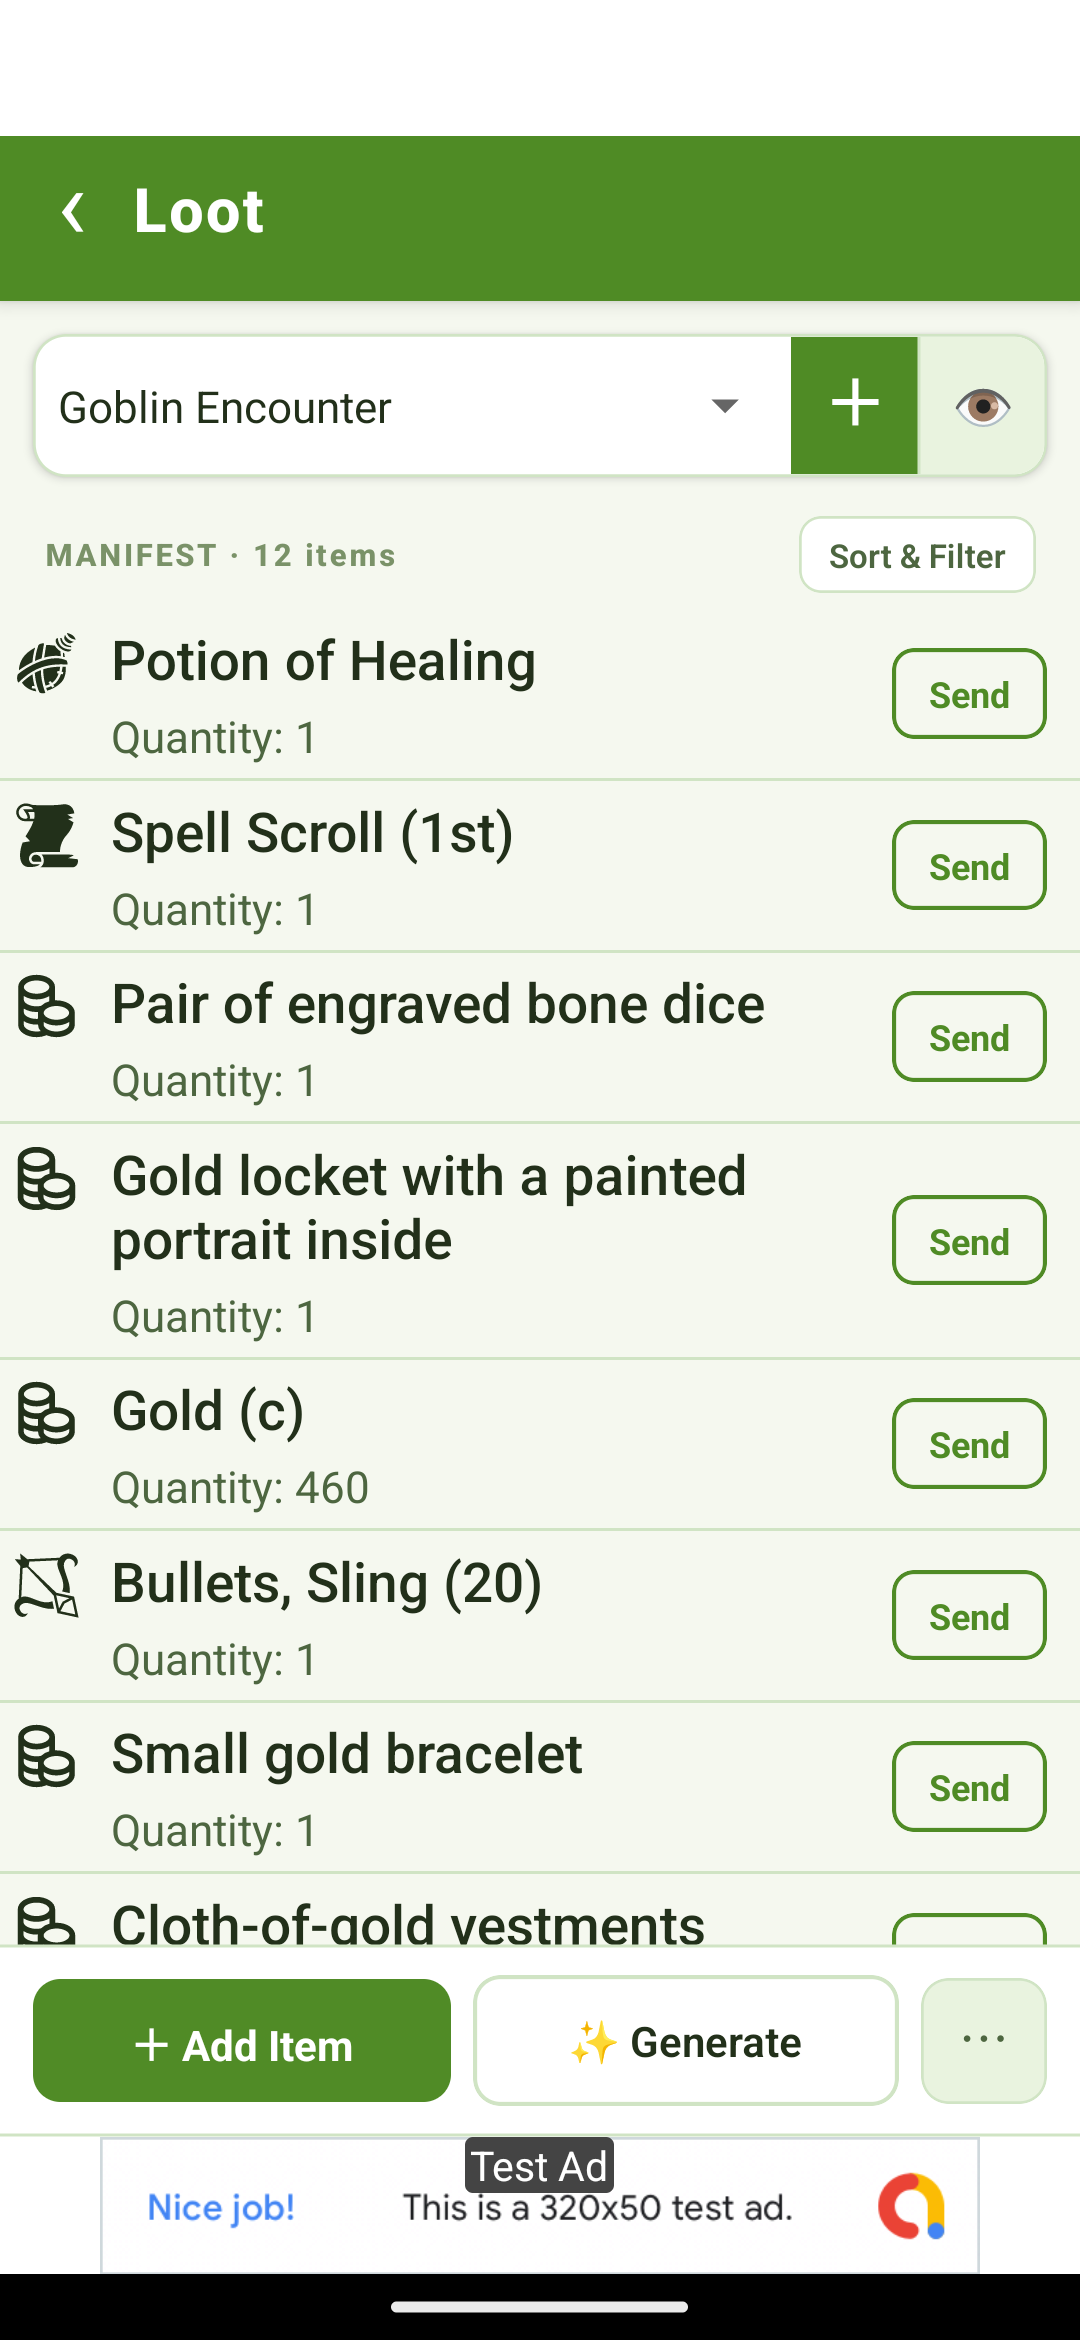
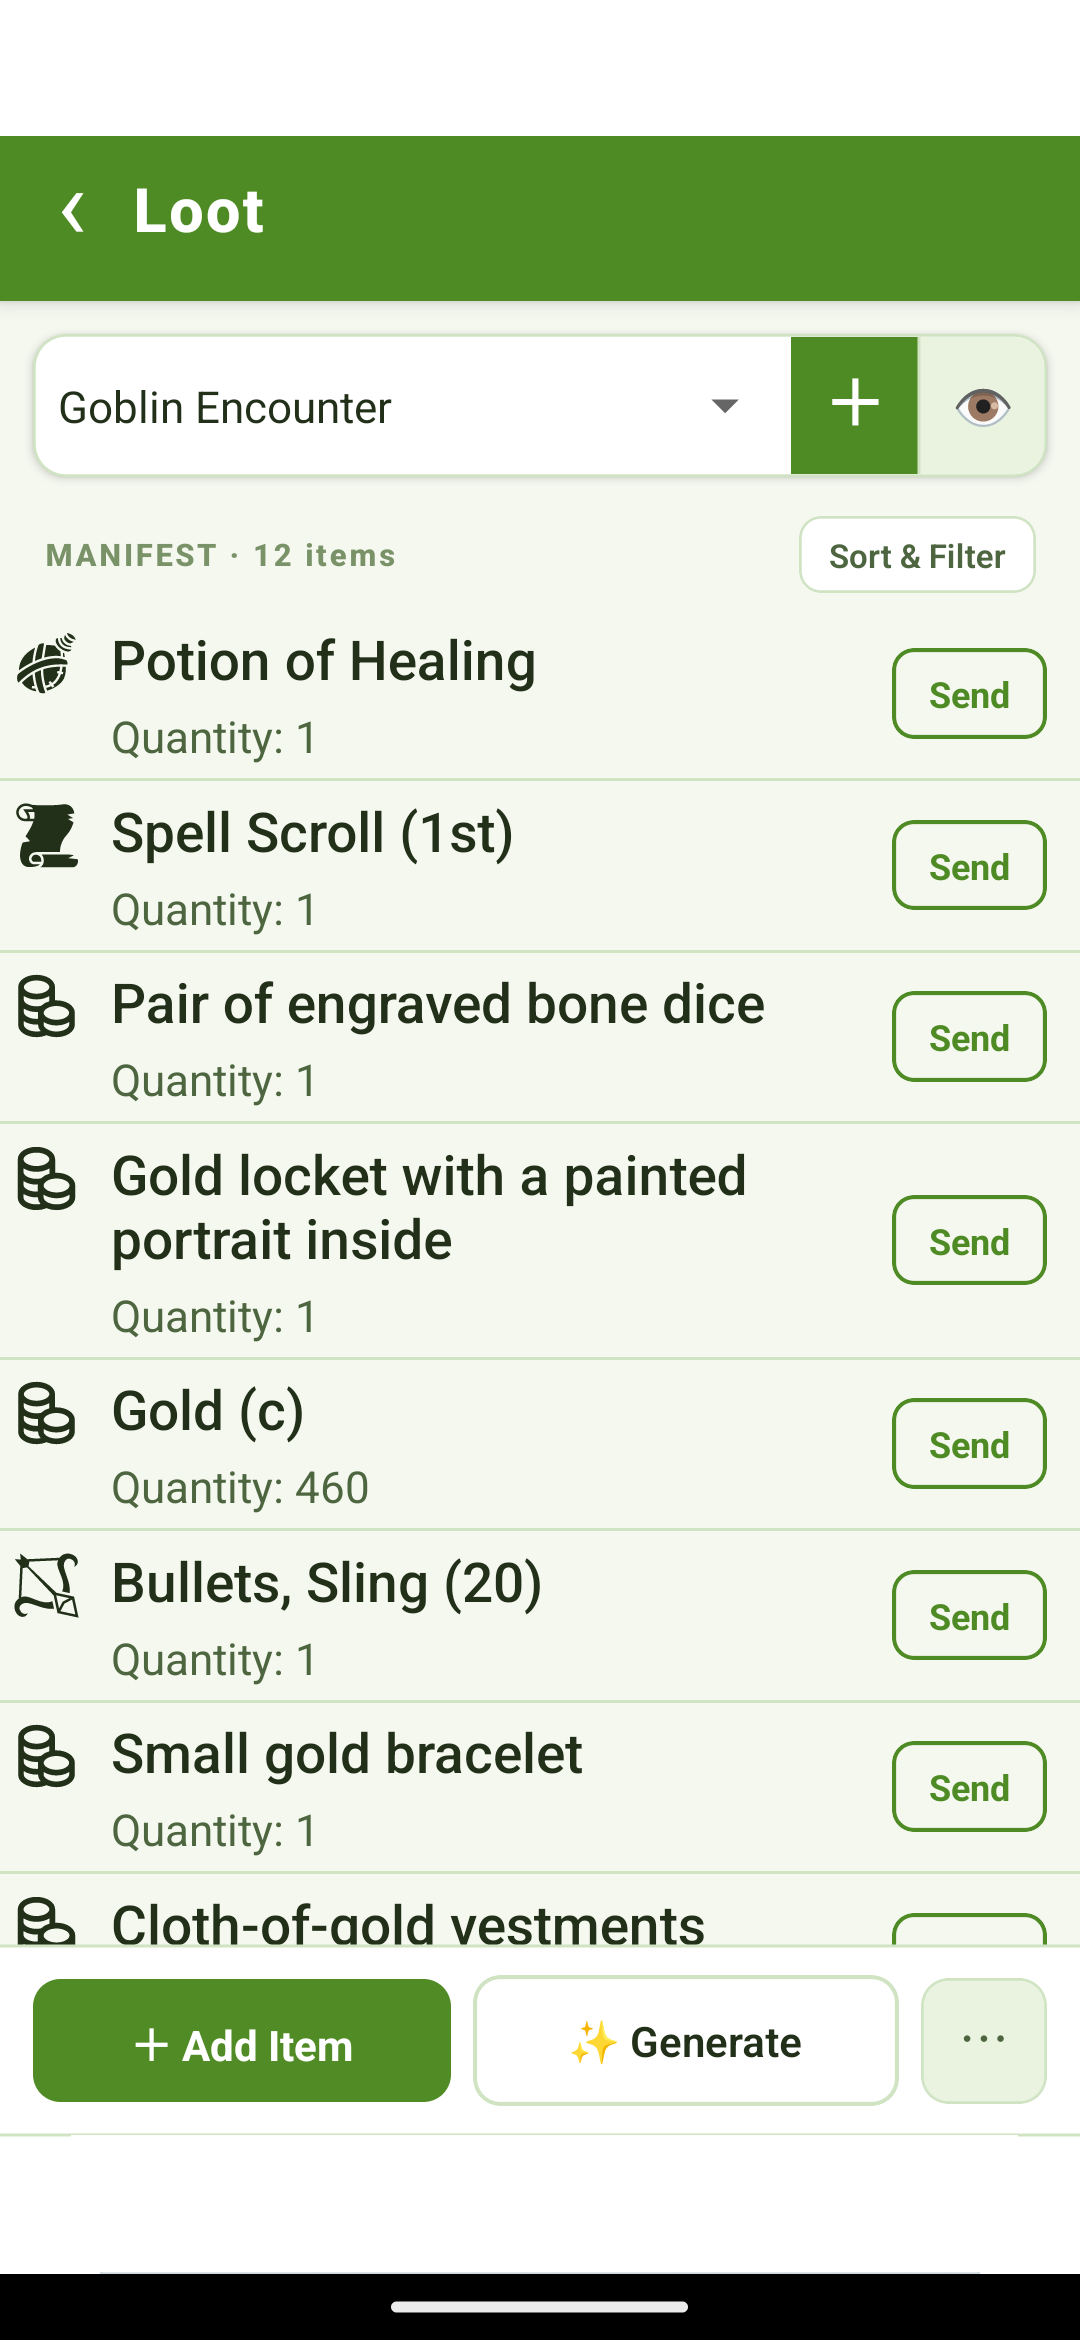
Expand site content: more feature rows, FAQ, hero image, privacy policy fix
- index.html: hero now shows the DM Screen screenshot beside the intro
  text (stacked on mobile); "Five Things" -> "Seven Things It Actually
  Does" with new Shop and Barter rows
- features.html: add screenshots to Dice Roller, Inventory, Crafting,
  and Macros rows
- support.html: rewrite "Is the app finished?" and the no-Android-device
  answer, add three new FAQ entries (ads/monetization, DM device loss +
  backups, offline/networking)
- download.html: drop the pre-launch "going live soon" copy, button now
  reads "Get it on Google Play" (href is still a placeholder pending the
  real Play Store URL)
- privacy-policy.html: add the effective date (verified against the live
  Google Sites source), remove the draft-verification banner now that
  the content's been confirmed
- screenshots/: add crafting, dice-roller, inventory, macros; update
  loot-list and shop-list with the test-ad banners cropped out
- styles.css: .hero-layout/.hero-shot for the new side-by-side hero

diff --git a/site/features.html b/site/features.html
@@ -43,10 +43,15 @@
         <img class="feature-shot" src="/screenshots/timekeeper-counters.png" alt="Time Keeper's linked counters list">
       </div>
     </div>
-    <div class="feature-row">
-      <span class="tag">Session</span>
-      <h3><span class="h3-emoji">🎲</span>Dice Roller</h3>
-      <p>Standard d4–d100, a dice count, and a flat modifier, with a running result log for the table to scroll back through.</p>
+    <div class="feature-row feature-row-media">
+      <div>
+        <span class="tag">Session</span>
+        <h3><span class="h3-emoji">🎲</span>Dice Roller</h3>
+        <p>Standard d4–d100, a dice count, and a flat modifier, with a running result log for the table to scroll back through.</p>
+      </div>
+      <div class="feature-shots">
+        <img class="feature-shot" src="/screenshots/dice-roller.png" alt="The Dice Roller with a result and running log">
+      </div>
     </div>
     <div class="feature-row feature-row-media">
       <div>
@@ -80,25 +85,40 @@
         <img class="feature-shot" src="/screenshots/barter.png" alt="A Barter trade with requesting, offering, and surplus">
       </div>
     </div>
-    <div class="feature-row">
-      <span class="tag">Party</span>
-      <h3><img class="h3-icon" src="/icons/armor.png" alt="">Inventory</h3>
-      <p>Sort by name, weight, value, or category, with encumbrance and gold visible at a glance. Long-press any item to inspect, sell, discard, or hand it to another party member or to Party Loot.</p>
+    <div class="feature-row feature-row-media">
+      <div>
+        <span class="tag">Party</span>
+        <h3><img class="h3-icon" src="/icons/armor.png" alt="">Inventory</h3>
+        <p>Sort by name, weight, value, or category, with encumbrance and gold visible at a glance. Long-press any item to inspect, sell, discard, or hand it to another party member or to Party Loot.</p>
+      </div>
+      <div class="feature-shots">
+        <img class="feature-shot" src="/screenshots/inventory.png" alt="A player's inventory with carry weight and gold">
+      </div>
     </div>
     <div class="feature-row">
       <span class="tag">Rules</span>
       <h3><img class="h3-icon" src="/icons/magic-item.png" alt="">Custom Items &amp; Inventory Sets</h3>
       <p>Author campaign-specific items on the fly, or swap in an entirely different catalog from an uploaded JSON file — your own homebrew system or setting, replacing the default list everywhere it's used. Updating it mid-session pushes to every connected player without anyone reconnecting. Building your own catalog? See the <a href="/custom-inventory-guide">Custom Inventory Guide</a> for the full file format.</p>
     </div>
-    <div class="feature-row">
-      <span class="tag">Rules</span>
-      <h3><img class="h3-icon" src="/icons/axe.png" alt="">Crafting</h3>
-      <p>The crafting form itself changes with the ruleset — SRD, homebrew, and a Fallout-style variant that gates on a rarity-scaled skill check, with a chance to lose materials on a failed roll.</p>
+    <div class="feature-row feature-row-media">
+      <div>
+        <span class="tag">Rules</span>
+        <h3><img class="h3-icon" src="/icons/axe.png" alt="">Crafting</h3>
+        <p>The crafting form itself changes with the ruleset — SRD, homebrew, and a Fallout-style variant that gates on a rarity-scaled skill check, with a chance to lose materials on a failed roll.</p>
+      </div>
+      <div class="feature-shots">
+        <img class="feature-shot" src="/screenshots/crafting.png" alt="Crafting by gold value, D&D 5e SRD style">
+      </div>
     </div>
-    <div class="feature-row">
-      <span class="tag">Automation</span>
-      <h3><img class="h3-icon" src="/icons/lightning.png" alt="">Macros</h3>
-      <p>Roll a die against a DC, then apply separate success and failure effects — an item's quantity or a Counter's value, each with its own bonus dice. Macros can chain into a follow-up macro on pass or fail, with a shared roll history for the table.</p>
+    <div class="feature-row feature-row-media">
+      <div>
+        <span class="tag">Automation</span>
+        <h3><img class="h3-icon" src="/icons/lightning.png" alt="">Macros</h3>
+        <p>Roll a die against a DC, then apply separate success and failure effects — an item's quantity or a Counter's value, each with its own bonus dice. Macros can chain into a follow-up macro on pass or fail, with a shared roll history for the table.</p>
+      </div>
+      <div class="feature-shots">
+        <img class="feature-shot" src="/screenshots/macros.png" alt="Building a macro with a DC check and success/fail effects">
+      </div>
     </div>
     <div class="feature-row feature-row-media">
       <div>

diff --git a/site/index.html b/site/index.html
@@ -26,12 +26,19 @@
 <main>
 
   <section class="hero">
-    <p class="eyebrow">TTRPG session companion</p>
-    <h1>Master Your TTRPG Adventures</h1>
-    <p class="sub">Stop Managing. Start Playing.</p>
-    <p class="desc">Elemental Inventory tracks time, manages resources, and distributes loot without the paperwork — so the table can get back to the story instead of the spreadsheet.</p>
-    <div class="btn-row">
-      <a class="btn btn-primary" href="/download">Download for Android</a>
+    <div class="hero-layout">
+      <div class="hero-text">
+        <p class="eyebrow">TTRPG session companion</p>
+        <h1>Master Your TTRPG Adventures</h1>
+        <p class="sub">Stop Managing. Start Playing.</p>
+        <p class="desc">Elemental Inventory tracks time, manages resources, and distributes loot without the paperwork — so the table can get back to the story instead of the spreadsheet.</p>
+        <div class="btn-row">
+          <a class="btn btn-primary" href="/download">Download for Android</a>
+        </div>
+      </div>
+      <div class="hero-shot-wrap">
+        <img class="hero-shot" src="/screenshots/dm-screen.png" alt="The DM Screen: Loot, Shop, Time Keeper, Players Inventory, Dice Roller, Barter, and Crafting, all in one place">
+      </div>
     </div>
     <div class="hero-icons" aria-hidden="true">
       <img src="/icons/weapon.png" alt="">
@@ -86,7 +93,7 @@
   </section>
 
   <section>
-    <h2 style="text-align:center; margin-bottom:36px;">Five Things It Actually Does</h2>
+    <h2 style="text-align:center; margin-bottom:36px;">Seven Things It Actually Does</h2>
 
     <div class="feature-row">
       <span class="tag"><img class="tag-icon" src="/icons/clock.png" alt="">Time Keeper</span>
@@ -97,6 +104,16 @@
       <span class="tag"><img class="tag-icon" src="/icons/currency.png" alt="">Loot &amp; Party Loot</span>
       <h3>30-Second Loot Distribution</h3>
       <p>The DM drops a haul in, players pick what they want, and anything nobody claims goes straight to a shared party pool instead of one character's overloaded pack. No more fifteen items and a scramble of handwritten notes.</p>
+    </div>
+    <div class="feature-row">
+      <span class="tag"><img class="tag-icon" src="/icons/shield.png" alt="">Shop</span>
+      <h3>A Storefront That Restocks Itself</h3>
+      <p>Players buy against the current stock with your discounts and fees already applied — no more spot-pricing every item out loud mid-session. Auto-stocked by category and rarity, so the DM can stand up a brand-new town's shop in seconds instead of building a list from scratch.</p>
+    </div>
+    <div class="feature-row">
+      <span class="tag"><img class="tag-icon" src="/icons/necklace.png" alt="">Barter</span>
+      <h3>Haggling Without the Spreadsheet</h3>
+      <p>Trade item-for-item with players, NPCs, or merchants on a shared board — what you want on top, what you're offering underneath — with a live balance bar showing even, short, or surplus. No more arguing over what a magic sword is "worth" in torches.</p>
     </div>
     <div class="feature-row">
       <span class="tag"><img class="tag-icon" src="/icons/lightning.png" alt="">Macros</span>

diff --git a/site/support.html b/site/support.html
@@ -38,11 +38,19 @@
 
     <div class="faq-item">
       <h3>Is the app finished?</h3>
-      <p>It's under active development — the core features documented on <a href="/features">Features</a> work today, and updates roll out regularly. Expect the occasional rough edge.</p>
+      <p>It's live on the Play Store and still actively developed — the core features documented on <a href="/features">Features</a> work today, and new ones roll out regularly. Expect the occasional rough edge as it keeps growing.</p>
+    </div>
+    <div class="faq-item">
+      <h3>Is it really free? Are there ads?</h3>
+      <p>Yes, completely free — no subscription, no in-app purchases, nothing gated behind a paywall. It's supported by small banner ads that never interrupt play or block a feature.</p>
     </div>
     <div class="faq-item">
       <h3>Will my data carry over as the app updates?</h3>
       <p>Yes — your campaigns live on your own device and aren't affected by app updates.</p>
+    </div>
+    <div class="faq-item">
+      <h3>What happens if the DM's phone dies, or the app gets deleted?</h3>
+      <p>The DM can export a full session backup at any time — every player's inventory, Loot, Shop, Time Keeper, and any custom item catalog — and Auto-Backup can keep one updated automatically in a folder outside the app's own storage, so it survives even a full uninstall. Restoring picks the same campaign back up as the same DM, on the same or a new device.</p>
     </div>
     <div class="faq-item">
       <h3>How do I report a bug?</h3>
@@ -51,6 +59,10 @@
     <div class="faq-item">
       <h3>Can I invite my whole group?</h3>
       <p>Please do — up to ten players can join a single game, and it's more fun (and more useful feedback for us) with the whole table involved.</p>
+    </div>
+    <div class="faq-item">
+      <h3>Do we need internet at the table?</h3>
+      <p>No cloud database, no account, no subscription — the DM's device hosts the game and everyone connects peer-to-peer. Everyone still needs some form of connection (wifi or mobile data) for those devices to actually sync with each other, though.</p>
     </div>
     <div class="faq-item">
       <h3>Why Android first?</h3>
@@ -62,7 +74,7 @@
     </div>
     <div class="faq-item">
       <h3>I don't have an Android device — can I still try it?</h3>
-      <p>Not yet — a browser version is in the works, and iOS is planned after that. Android is the only supported platform for now.</p>
+      <p>Not yet as a native install — a browser version is in the works, and iOS is planned after that. In the meantime, a free Android emulator on your PC or Mac works fine: <a href="https://www.bluestacks.com/" target="_blank" rel="noopener">BlueStacks</a> is the quickest to set up, or <a href="https://developer.android.com/studio" target="_blank" rel="noopener">Android Studio</a>'s built-in emulator if you'd rather skip third-party software.</p>
     </div>
 
   </section>

diff --git a/site/privacy-policy.html b/site/privacy-policy.html
@@ -26,15 +26,10 @@
 <main>
   <section class="hero" style="padding-bottom:0; text-align:left;">
     <h1>Privacy Policy</h1>
+    <p style="color:var(--ink-faint); font-size:13.5px;">Effective July 3, 2026</p>
   </section>
 
   <section class="narrow" style="margin:0 auto;">
-
-    <div class="draft-notice">
-      <strong>Draft — please verify before this replaces the live policy.</strong> This page was reconstructed from the existing Google Sites privacy policy via an automated summary, not copied verbatim. Compare it against the original at
-      <a href="https://sites.google.com/view/elementalinventoryapp/privacy-policy" target="_blank" rel="noopener">sites.google.com/view/elementalinventoryapp/privacy-policy</a>
-      and correct any wording before publishing, since this is a legal document and the exact language matters.
-    </div>
 
     <p>This privacy policy applies to the Elemental Inventory app for mobile devices, together with any related services operated by Daniel Kissel.</p>
 

diff --git a/site/styles.css b/site/styles.css
@@ -208,6 +208,24 @@ section + section { border-top: 3px dashed var(--leaf-dark); }
   .hero-icons { gap: 10px; }
 }
 
+/* Text left, screenshot right on wide screens; stacked and centered
+   (matching the rest of .hero) on anything narrower than that. */
+.hero-layout { display: grid; grid-template-columns: 1fr; gap: 32px; align-items: center; }
+@media (min-width: 761px) {
+  .hero-layout { grid-template-columns: 1.15fr auto; text-align: left; }
+  .hero-layout .sub, .hero-layout .desc { margin-left: 0; margin-right: auto; }
+  .hero-layout .btn-row { justify-content: flex-start; }
+}
+.hero-shot-wrap { display: flex; justify-content: center; }
+.hero-shot {
+  width: 230px;
+  height: auto;
+  display: block;
+  border: 3px solid var(--ink);
+  box-shadow: var(--pixel-shadow);
+}
+@media (max-width: 560px) { .hero-shot { width: 190px; } }
+
 .tag-icon {
   width: 16px;
   height: 16px;

diff --git a/site/download.html b/site/download.html
@@ -62,10 +62,8 @@
     </div>
 
     <div style="text-align:center; margin-top:32px;">
-      <!-- TODO: replace href="#" with the real Play Store (or direct APK)
-           download link once it exists. -->
-      <a class="btn btn-primary" href="#">Download for Android</a>
-      <p style="margin-top:14px; color:var(--ink-faint); font-size:13.5px;">Play Store link going live soon — check back, or watch the <a href="/contact">Discord/socials</a> for the announcement.</p>
+      <!-- TODO: replace href="#" with the real Play Store listing URL. -->
+      <a class="btn btn-primary" href="#">Get it on Google Play</a>
     </div>
   </section>
 </main>
